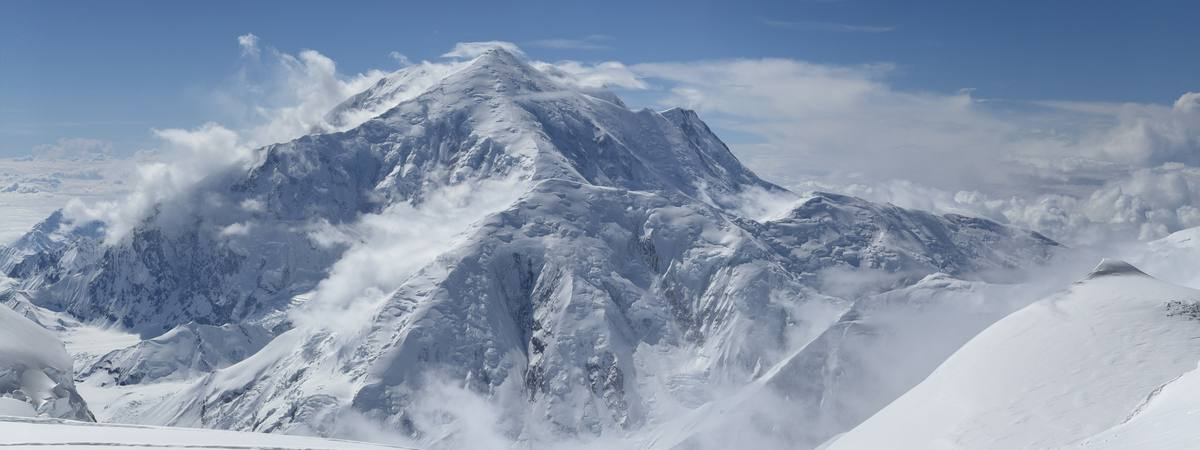
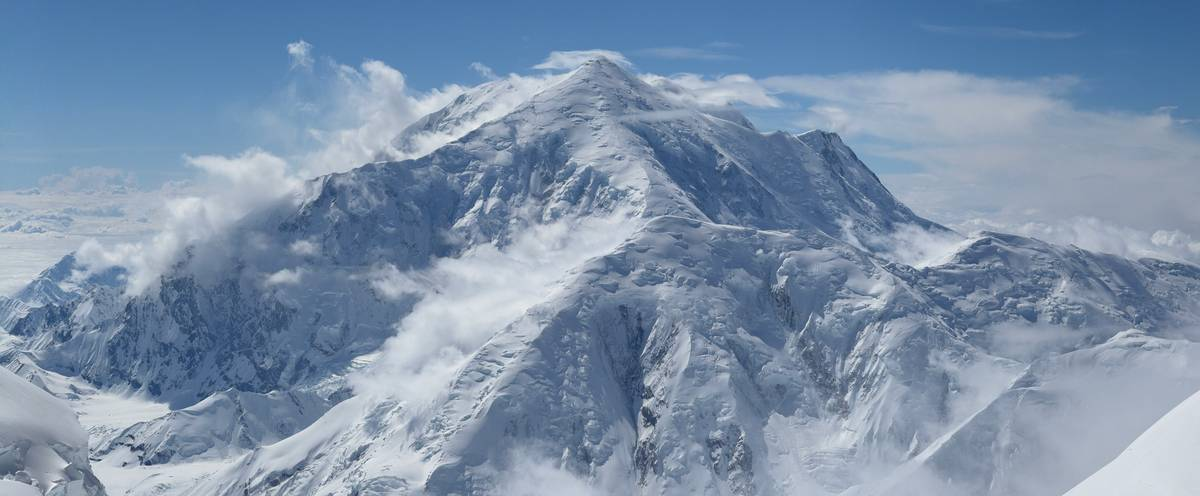
Give the landing page a hero band
The Sultana photo was the entire viewport — position: fixed, inset 0 —
with every word of the page floating above it in one translucent card.
Open-Meteo does the obvious thing instead: the photo is a section with
edges, 600px of it, and the page carries on below in plain type. Same
here, at 480px, and the card and its backdrop blur go away with it. Body
copy now sits on white, so the landing page matches /support, /privacy
and /terms below the fold rather than being its own thing. The 720px
max-width moves off body onto a .wrap, which is what lets the band run
full-bleed; the other three pages render exactly as before.

The photo is recropped so the summit is the center of the frame, which
is the whole trick — center holds it there at any width, and the band
crops around it instead of around whatever happened to be in the middle.
Vertically the anchor is top, not center: the summit sits a tenth of a
frame below the upper edge, so on a band wider than the photo's 2.42:1
the cover crop eats height, and any other anchor carries the peak up and
out. Bottom, which is what this started as, loses it completely — at
1920px the band showed 420 of 720 scaled pixels starting 228px below the
peak.

The master lives in packages/server/assets now and is tracked. It is
5MB, which I would rather not put in history, but the crop is hand-made
and redoing it by eye is worse. Its EXIF is stripped first, losslessly —
drop the APP1 and APP10 segments, copy the rest through, never re-encode
[…]

diff --git a/packages/server/src/legal.ts b/packages/server/src/legal.ts
@@ -5,51 +5,59 @@ const LAST_UPDATED = "August 5, 2026";
 const CONTACT_EMAIL = "help@going.blue";
 const FORECAST_NUMBER = "+14254345858";
 
-// The landing page is set on a photo of Sultana. It is a wide panorama, so it is anchored to
-// the bottom edge: cover-cropping a 2.6:1 image into a portrait phone viewport keeps the summit
-// and throws away only sky. Served at two widths from /img (assets.ts) — the small one is plenty
-// for a phone and a quarter of the bytes.
-const PHOTO_CSS = `
-  body.photo::before {
-    content: ""; position: fixed; inset: 0; z-index: -1;
-    background: linear-gradient(rgba(12, 34, 64, 0.2), rgba(12, 34, 64, 0.42)),
-      url(/img/sultana-1200.jpg) center bottom / cover no-repeat #0c2240;
+// The landing page is headed by a full-bleed photo of Sultana in a band of its own, with the
+// masthead over it — the photo is a defined section of the page, not the backdrop behind all of
+// it. Served at two widths from /img (assets.ts); the small one is plenty for a phone and a
+// quarter of the bytes.
+//
+// The source photo is cropped so the summit is the center of the frame, which is what lets the
+// band crop around it: horizontally `center` holds the summit in the middle at any width. The
+// vertical is `top` rather than `center` because the summit sits a tenth of a frame below the
+// upper edge — on a band wider than the photo's 2.46:1 the `cover` crop eats height, and any
+// anchor but the top carries the peak up and out of the band.
+//
+// The app icon sits above the title. The icon file is square and unrounded (iOS applies the mask
+// itself), so the corner radius is ours to draw: 22.4% of the width is Apple's own superellipse
+// proportion, which is what makes it read as an app icon rather than a photo.
+const HERO_CSS = `
+  .hero {
+    display: flex; align-items: center; justify-content: center;
+    height: 480px; padding: 0 20px; text-align: center; color: #fff;
+    background: linear-gradient(rgba(12, 34, 64, 0.15), rgba(12, 34, 64, 0.5)),
+      url(/img/sultana-1200.jpg) center top / cover no-repeat #0c2240;
   }
   @media (min-width: 801px) {
-    body.photo::before {
-      background-image: linear-gradient(rgba(12, 34, 64, 0.2), rgba(12, 34, 64, 0.42)),
+    .hero {
+      background-image: linear-gradient(rgba(12, 34, 64, 0.15), rgba(12, 34, 64, 0.5)),
         url(/img/sultana-2400.jpg);
     }
   }
-  body.photo .card {
-    background: rgba(255, 255, 255, 0.94);
-    -webkit-backdrop-filter: blur(8px); backdrop-filter: blur(8px);
-    border-radius: 14px; padding: 26px 30px 22px;
-    box-shadow: 0 10px 40px rgba(8, 24, 48, 0.3);
+  @media (max-width: 600px) { .hero { height: 380px; } }
+  .hero h1 { margin: 0.5em 0 0.12em; font-size: 2.2em; letter-spacing: -0.02em;
+    text-shadow: 0 2px 10px rgba(6, 18, 36, 0.55); }
+  .hero .subtitle { margin: 0; font-size: 1.2em;
+    text-shadow: 0 2px 10px rgba(6, 18, 36, 0.55); }
+  .appicon { display: block; width: 116px; height: 116px; margin: 0 auto; border-radius: 26px;
+    box-shadow: 0 6px 22px rgba(6, 18, 36, 0.45); }
+  @media (max-width: 600px) {
+    .appicon { width: 92px; height: 92px; border-radius: 21px; }
+    .hero h1 { font-size: 1.85em; }
+    .hero .subtitle { font-size: 1.05em; }
   }
 `;
 
-// The app icon over the title, as a masthead. The icon file is square and unrounded (iOS applies
-// the mask itself), so the corner radius is ours to draw: 22.4% of the width is Apple's own
-// superellipse proportion, which is what makes it read as an app icon rather than a photo.
-const MASTHEAD_CSS = `
-  .masthead { text-align: center; margin-bottom: 2.2em; }
-  .masthead h1 { margin: 0.55em 0 0.15em; font-size: 2em; letter-spacing: -0.02em; }
-  .appicon { display: block; width: 116px; height: 116px; margin: 0 auto; border-radius: 26px;
-    box-shadow: 0 5px 18px rgba(8, 24, 48, 0.24); }
-  .subtitle { margin: 0; color: #4a5568; font-size: 1.15em; }
-`;
+type PageOpts = { showUpdated?: boolean; subtitle?: string };
 
-type PageOpts = { showUpdated?: boolean; photo?: boolean; subtitle?: string };
-
-const PAGE = (title: string, body: string, { showUpdated = true, photo = false, subtitle }: PageOpts = {}) => `<!doctype html>
+// `subtitle` is what makes a page a landing page: it swaps the plain <h1> for the photo band.
+const PAGE = (title: string, body: string, { showUpdated = true, subtitle }: PageOpts = {}) => `<!doctype html>
 <html lang=en>
 <head>
 <meta charset=utf-8>
 <meta name=viewport content="width=device-width, initial-scale=1">
 <title>${title === BRAND ? BRAND : `${title} — ${BRAND}`}</title>
 <style>
-  body { font-family: -apple-system, system-ui, sans-serif; max-width: 720px; margin: 40px auto; padding: 0 20px; color: #1a1a1a; line-height: 1.55; }
+  body { font-family: -apple-system, system-ui, sans-serif; margin: 0; color: #1a1a1a; line-height: 1.55; }
+  .wrap { max-width: 720px; margin: 40px auto; padding: 0 20px; }
   h1 { font-size: 1.6em; }
   h2 { font-size: 1.15em; margin-top: 1.8em; }
   .updated { color: #666; font-size: 0.9em; }
@@ -57,17 +65,20 @@ const PAGE = (title: string, body: string, { showUpdated = true, photo = false, 
   a { color: #0b62c4; }
   .appbtn { display: inline-block; background: #0b62c4; color: #fff; padding: 11px 20px; border-radius: 8px; text-decoration: none; font-weight: 600; margin: 0.6em 0 1.2em; }
   footer { margin-top: 3em; padding-top: 1em; border-top: 1px solid #ddd; color: #666; font-size: 0.9em; }
-${subtitle ? MASTHEAD_CSS : ""}${photo ? PHOTO_CSS : ""}</style>
+${subtitle ? HERO_CSS : ""}</style>
 </head>
-<body${photo ? " class=photo" : ""}>
-<div class=card>
+<body>
 ${subtitle
-  ? `<div class=masthead>
-  <img class=appicon src="/img/icon-512.jpg" width=116 height=116 alt="">
-  <h1>${title}</h1>
-  <p class=subtitle>${subtitle}</p>
-</div>`
-  : `<h1>${title}</h1>`}
+  ? `<header class=hero>
+  <div>
+    <img class=appicon src="/img/icon-512.jpg" width=116 height=116 alt="">
+    <h1>${title}</h1>
+    <p class=subtitle>${subtitle}</p>
+  </div>
+</header>`
+  : ""}
+<div class=wrap>
+${subtitle ? "" : `<h1>${title}</h1>`}
 ${showUpdated ? `<p class=updated>Last updated: ${LAST_UPDATED}</p>` : ""}
 ${body}
 <footer>
@@ -78,48 +89,42 @@ ${body}
 </body>
 </html>`;
 
+// The marketing copy is kept in step with the App Store listing's description — the two are read
+// back to back by anyone deciding whether to install, so they should not tell different stories.
 // The companion app is iOS-only and distributed through the App Store; the landing page links to
 // it once the listing is live (drop an `<a class=appbtn href="...">` back in below).
+//
+// The page is marketing only: the SMS consent language, the opt-out wording and the safety
+// disclaimer live on /support, /privacy and /terms, reached through the footer. If an A2P 10DLC
+// campaign review asks for consent language on the public site, it goes back here.
 const LANDING_BODY = `
-<p>On-request weather forecasts delivered by text message — built for
-satellite messengers like the Garmin inReach, and for mobile phones.</p>
-
-<p>${BRAND} gives you better forecasts than the default satellite-messenger weather service.
-You send a short text containing a location and the forecast options you want; ${BRAND}
-replies with a compact, encoded forecast that the companion app decodes into a full
-multi-day forecast — small enough to fit within satellite messaging size limits.</p>
-
-<div class=cta>
-  <h2 style="margin-top:0">Get weather forecasts by text</h2>
-  <p><strong>Text START to (425) 434-5858 to get weather forecasts from ${BRAND}.</strong>
-  One message is sent in response to each forecast request. Message and data rates may apply.
-  Reply HELP for help, STOP to opt out.
-  Terms: <a href="https://going.blue/terms">https://going.blue/terms</a>
-  Privacy: <a href="https://going.blue/privacy">https://going.blue/privacy</a></p>
-</div>
+<p>${BRAND} is a weather app designed specifically for satellite messengers. It was built for a
+Denali ski expedition with one goal: to get you all the weather information you would have at
+home, wherever you are. ${BRAND} uses a custom compression codec and decoder app to pack hundreds
+of forecast data points into a single 160-character message.</p>
 
 <h2>How it works</h2>
 <ol>
-  <li>Text <strong>START</strong> to (425) 434-5858 to opt in; ${BRAND} replies with a welcome
-  message.</li>
-  <li>Send a text message to ${BRAND} with a location (latitude and longitude) and your
-  forecast options, from your satellite messenger or mobile phone.</li>
-  <li>${BRAND} fetches the forecast for that location and replies to you with a single
-  message.</li>
-  <li>Open the ${BRAND} companion app to decode and view the full forecast.</li>
+  <li>Build a forecast request in the app. Choose the location, model, and variables that you
+  care about.</li>
+  <li>Send it from your satellite messenger, as a text message, or over the internet.</li>
+  <li>Paste the reply back into the app's decoder to see a detailed meteogram.</li>
 </ol>
 
-<p>${BRAND} only ever replies to a message you send first and sends no marketing, promotional,
-recurring, or unsolicited messages. Message frequency is controlled entirely by you. We never
-sell or share your phone number or opt-in consent with third parties.</p>
-
-<h2>Important: forecasts are informational</h2>
-<p>Forecasts are provided for informational purposes only and may be inaccurate, delayed, or
-unavailable. Do not rely on ${BRAND} as your sole source of weather information for decisions
-affecting safety, including in remote or backcountry settings.</p>
-
-<p>See our <a href="/privacy">Privacy Policy</a> and <a href="/terms">Terms &amp; Conditions</a>
-for full details. Questions? Contact <a href="mailto:${CONTACT_EMAIL}">${CONTACT_EMAIL}</a>.</p>
+<h2>Forecast details</h2>
+<ul>
+  <li>Support for any satellite messenger that works over SMS. Tested with Garmin inReach and
+  ZOLEO. Also works over the internet if you are in service.</li>
+  <li>Temperature, snow, rain, wind, and cloud cover included by default.</li>
+  <li>Optional variables such as pressure-level winds, cloud cover by height, and freezing
+  level.</li>
+  <li>Over 30 high-resolution regional models from American, Canadian, and European forecast
+  centers. Automatically use the highest resolution model for your location or pull multiple
+  models to compare.</li>
+  <li>Hourly detail or extended range up to 13 days.</li>
+  <li>Past forecasts are saved on your device so that you can easily compare multiple forecasts
+  and see trends without requesting a new forecast.</li>
+</ul>
 `;
 
 // The App Store listing points its Support URL here rather than at the landing page: a reviewer
@@ -380,7 +385,6 @@ export function landing(c: Context) {
   return c.html(
     PAGE(BRAND, LANDING_BODY, {
       showUpdated: false,
-      photo: true,
       subtitle: "Weather forecasts over satellite",
     }),
   );

diff --git a/packages/server/src/assets.ts b/packages/server/src/assets.ts
@@ -7,6 +7,18 @@ import { log } from "./log.js";
 // middleware. Paths resolve relative to this module (dist/ at runtime), so `packages/server/public`
 // is found whether the server is started from the repo root or from inside the container.
 const ASSETS: Record<string, { file: string; type: string }> = {
+  // The landing-page photo, resampled from ../assets/sultana.jpg — the master, cropped so the
+  // summit is the center of the frame, which is the point the hero band crops around. Regenerate
+  // both widths together, and bump the name if the page has shipped: these are served immutable
+  // for a year, so a changed photo under an unchanged URL never reaches a repeat visitor. The
+  // master is Display P3 and carries the camera's EXIF, so resizing is not the whole job: convert
+  // to sRGB (browsers that ignore the embedded profile render P3 oversaturated) and drop EXIF
+  // (the master is GPS-tagged). `sips` does neither, so resize with Pillow —
+  //   img = ImageCms.profileToProfile(src, <master profile>, ImageCms.createProfile("sRGB"),
+  //                                   outputMode="RGB")
+  //   img.resize((w, round(w * src.height / src.width)), Image.LANCZOS).save(
+  //       out, "JPEG", quality=70, optimize=True, progressive=True, icc_profile=<sRGB bytes>)
+  // — which lands both files within a few KB of the weights they replaced.
   "sultana-2400.jpg": { file: "../public/sultana-2400.jpg", type: "image/jpeg" },
   "sultana-1200.jpg": { file: "../public/sultana-1200.jpg", type: "image/jpeg" },
   // The app icon, resized from packages/mobile/assets/icon.png. Regenerate it from that source
